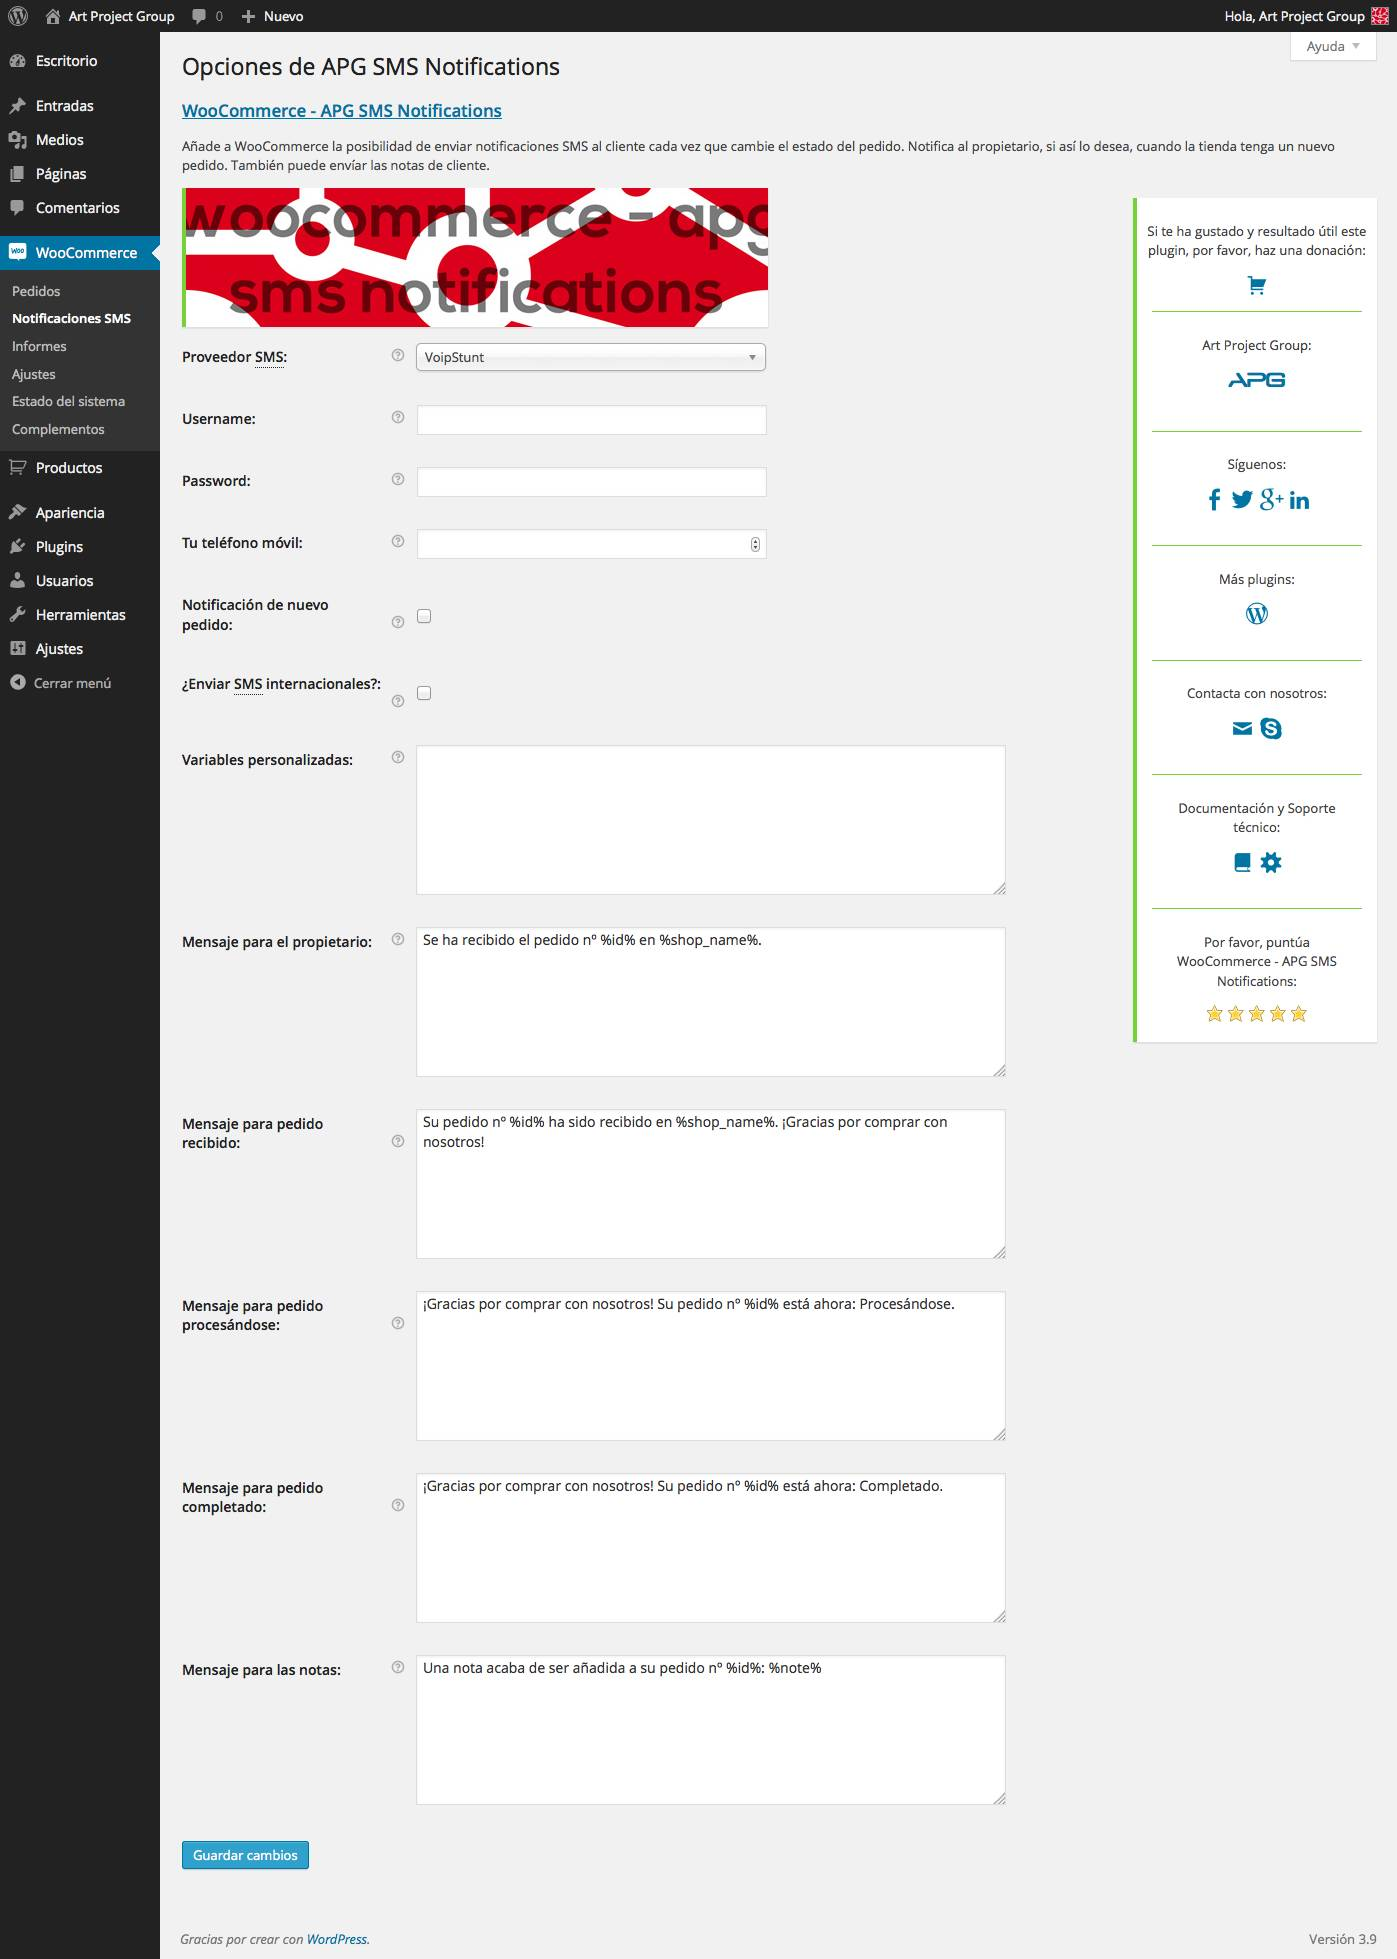
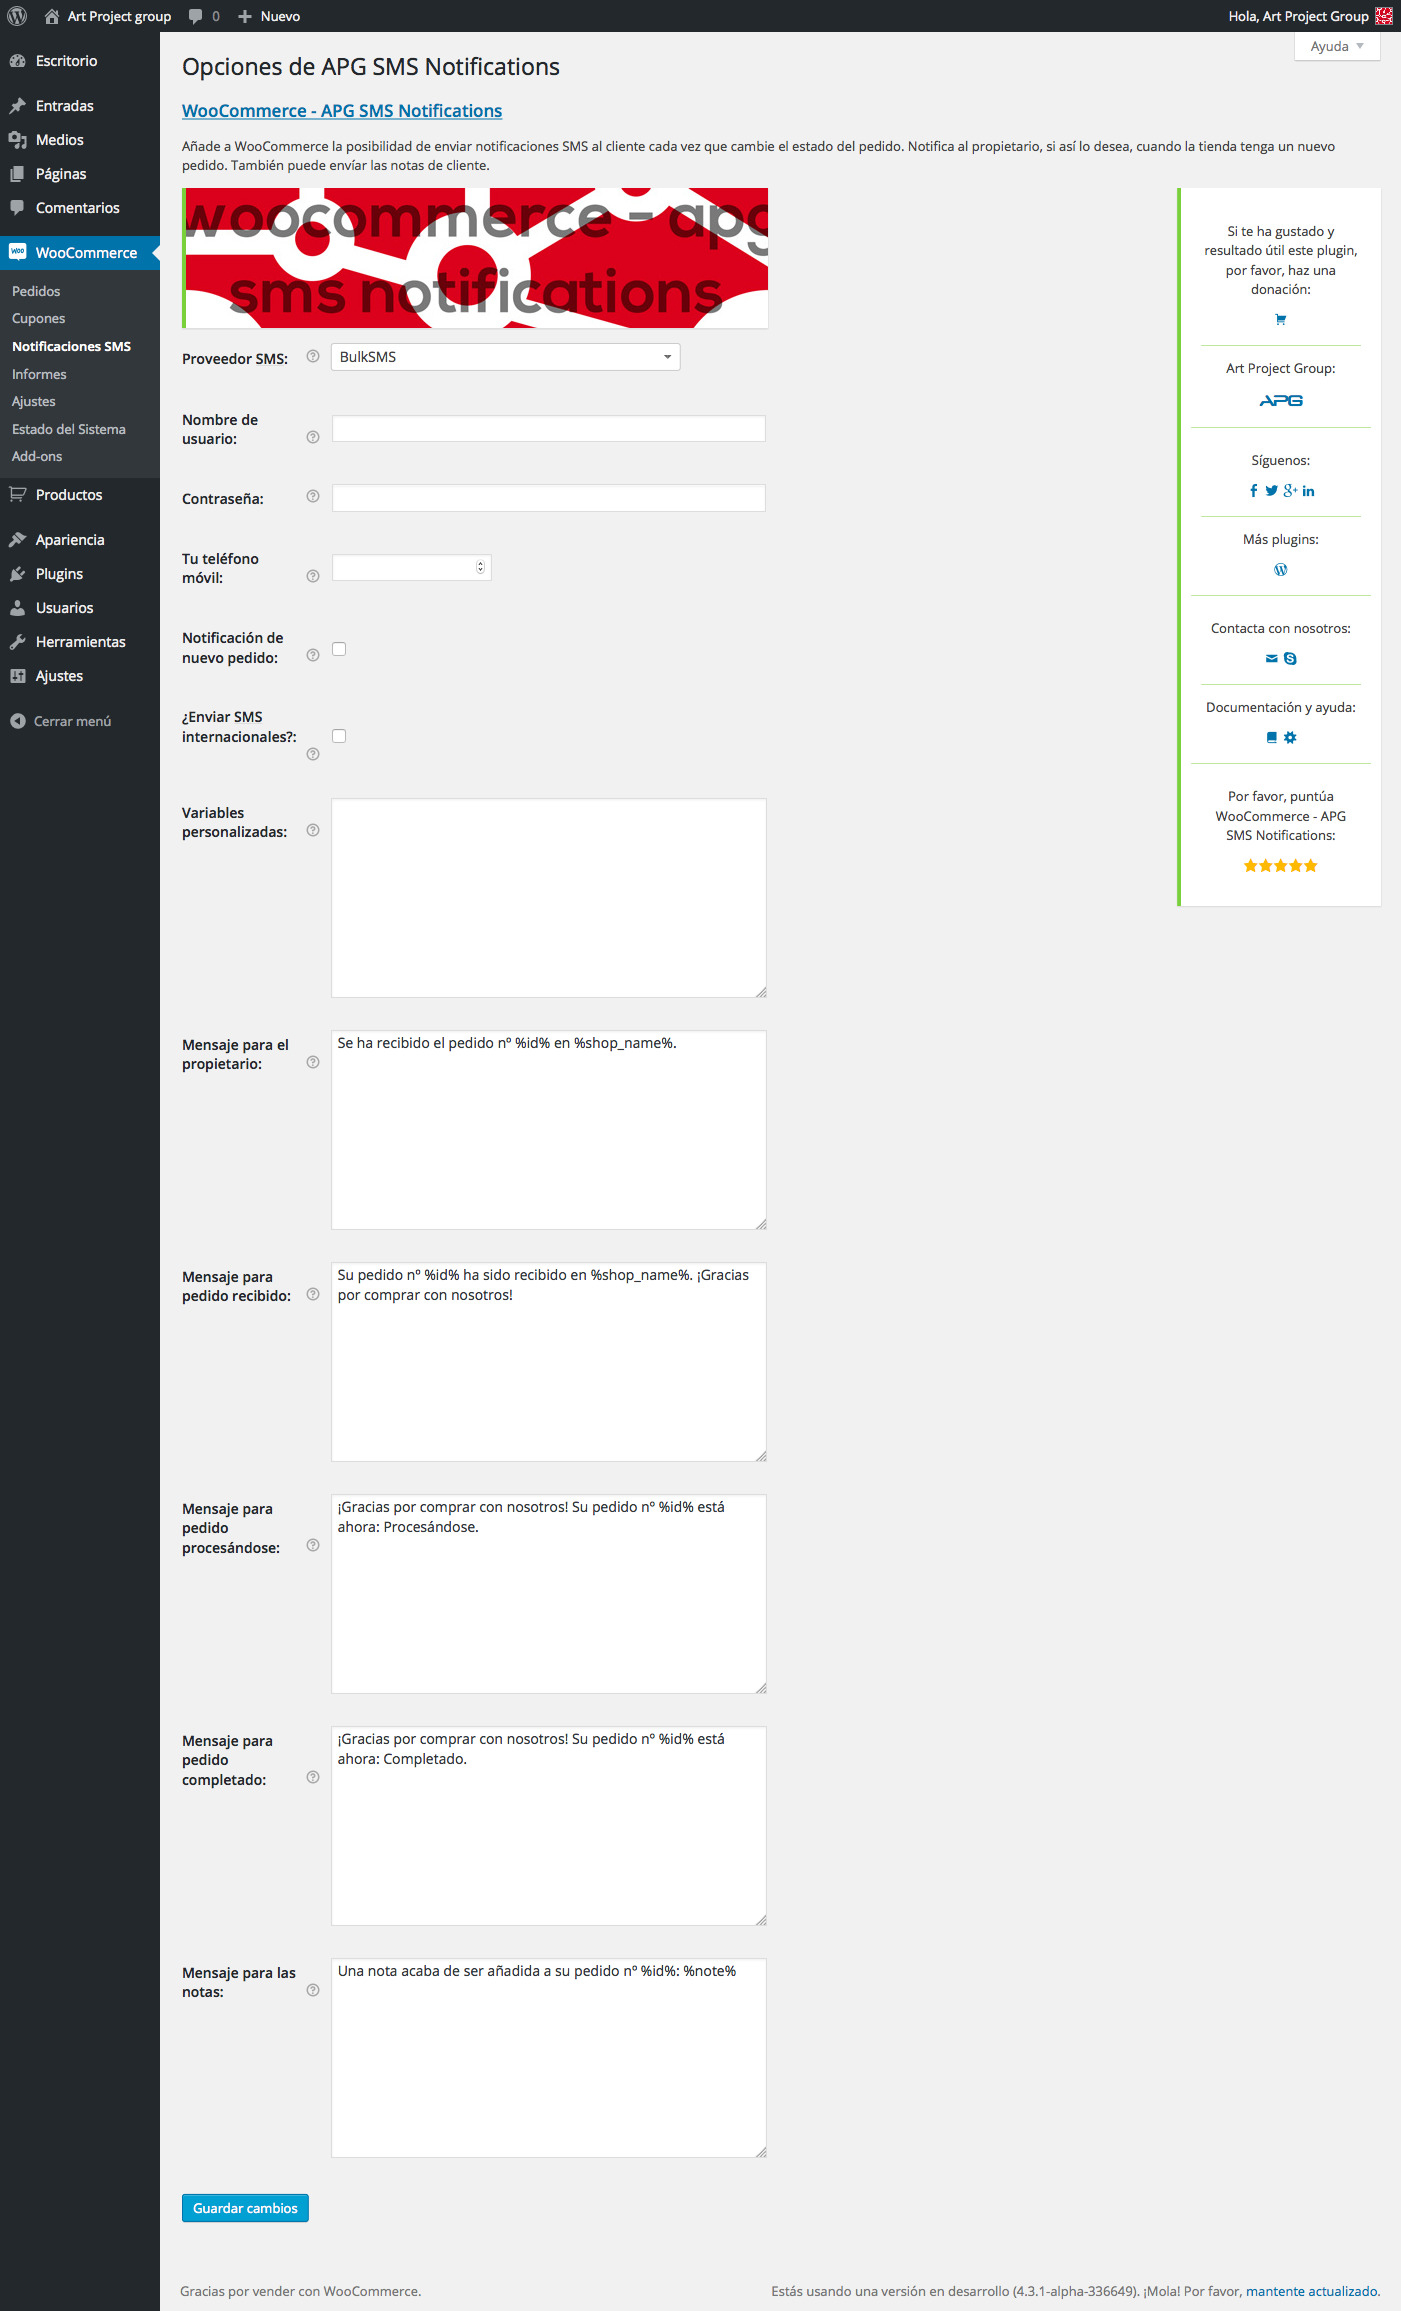
Versión 2.7.4
git-svn-id: http://plugins.svn.wordpress.org/woocommerce-apg-sms-notifications/trunk@1237925 b8457f37-d9ea-0310-8a92-e5e31aec5664

diff --git a/assets/css/style.css b/assets/css/style.css
@@ -1,5 +1,5 @@
 @charset "UTF-8";
- @import url(../fonts/stylesheet.css);
+@import url(../fonts/stylesheet.css);
 /*General*/
 table.apg-table, .cabecera {
 	clear: none;
@@ -28,10 +28,10 @@ table.apg-table, .cabecera {
 .estrellas .star-rating .star {
 	font-size: 18px;
 }
-div.informacion .genericon, div.informacion .estrellas .star-rating .star, div.informacion .artprojectgroup, {
- width: 15px;
- height: 15px;
- font-size: 15px;
+div.informacion .genericon, div.informacion .estrellas .star-rating .star, div.informacion .artprojectgroup {
+	width: 15px;
+	height: 15px;
+	font-size: 15px;
 }
 div.informacion {
 	background-color: #FFFFFF;

diff --git a/apg-sms.php b/apg-sms.php
@@ -1,7 +1,7 @@
 <?php
 /*
 Plugin Name: WooCommerce - APG SMS Notifications
-Version: 2.7.3.1
+Version: 2.7.4
 Plugin URI: http://wordpress.org/plugins/woocommerce-apg-sms-notifications/
 Description: Add to WooCommerce SMS notifications to your clients for order status changes. Also you can receive an SMS message when the shop get a new order and select if you want to send international SMS. The plugin add the international dial code automatically to the client phone number.
 Author URI: http://www.artprojectgroup.es/
@@ -82,8 +82,8 @@ if ( in_array( 'woocommerce/woocommerce.php', apply_filters( 'active_plugins', g
 	//Pinta el formulario de configuración
 	function apg_sms_tab() {
 		wp_enqueue_style( 'apg_sms_hoja_de_estilo' ); //Carga la hoja de estilo
-		wp_enqueue_style( 'woocommerce_chosen_styles' );
-		wp_enqueue_script( 'wc-chosen' );
+		//wp_enqueue_style( 'woocommerce_admin_styles' );
+		//wp_enqueue_script( 'wc-enhanced-select' );
 		include( 'includes/formulario.php' );
 	}
 
@@ -92,30 +92,6 @@ if ( in_array( 'woocommerce/woocommerce.php', apply_filters( 'active_plugins', g
 		global $configuracion;
 	
 		add_submenu_page( 'woocommerce', __( 'APG SMS Notifications', 'apg_sms' ),  __( 'SMS Notifications', 'apg_sms' ) , 'manage_woocommerce', 'apg_sms', 'apg_sms_tab' );
-	
-		//Estos ajustes temporales hay que borrarlos en un par de versiones
-		$actualiza = false;
-		if ( $configuracion['servicio'] == 'twillio' ) {
-			$configuracion['clave_twilio'] = $configuracion['clave_twillio'];
-			unset( $configuracion['clave_twillio'] );
-			$configuracion['identificador_twilio'] = $configuracion['identificador_twillio'];
-			unset( $configuracion['identificador_twillio'] );
-			$configuracion['servicio'] == 'twilio';
-			$actualiza = true;
-		}
-		if ( isset( $configuracion['telefono'] ) ) {
-			if ( !isset( $configuracion['telefono_twilio'] ) || empty( $configuracion['telefono_twilio'] ) ) {
-				$configuracion['telefono_twilio'] = $configuracion['telefono'];
-				$actualiza = true;
-			}
-			if ( !isset( $configuracion['telefono_isms'] ) || empty( $configuracion['telefono_isms'] ) ) {
-				$configuracion['telefono_isms'] = $configuracion['telefono'];
-				$actualiza = true;
-			}
-		}
-		if ( $actualiza ) {
-			update_option( 'apg_sms_settings', $configuracion );
-		}
 	}
 	add_action( 'admin_menu', 'apg_sms_admin_menu', 15 );
 
@@ -846,80 +822,81 @@ if ( in_array( 'woocommerce/woocommerce.php', apply_filters( 'active_plugins', g
 	
 		return ( $pais == '' ) ? $paises : ( isset( $paises[$pais] ) ? $paises[$pais] : '' );
 	}
-	
-	//Obtiene toda la información sobre el plugin
-	function apg_sms_plugin( $nombre ) {
-		global $apg_sms;
-		
-		$argumentos = ( object ) array( 
-			'slug' => $nombre 
-		);
-		$consulta = array( 
-			'action' => 'plugin_information', 
-			'timeout' => 15, 
-			'request' => serialize( $argumentos )
-		);
-		$respuesta = get_transient( 'apg_sms_plugin' );
-		if ( false === $respuesta ) {
-			$respuesta = wp_remote_post( 'http://api.wordpress.org/plugins/info/1.0/', array( 
-				'body' => $consulta)
-			);
-			set_transient( 'apg_sms_plugin', $respuesta, 24 * HOUR_IN_SECONDS );
-		}
-		if ( !is_wp_error( $respuesta ) ) {
-			$plugin = get_object_vars( unserialize( $respuesta['body'] ) );
-		} else {
-			$plugin['rating'] = 100;
-		}
-	
-		$rating = array(
-		   'rating'	=> $plugin['rating'],
-		   'type'	=> 'percent',
-		   'number'	=> $plugin['num_ratings'],
-		);
-		ob_start();
-		wp_star_rating( $rating );
-		$estrellas = ob_get_contents();
-		ob_end_clean();
-	
-		return '<a title="' . sprintf( __( 'Please, rate %s:', 'apg_sms' ), $apg_sms['plugin'] ) . '" href="' . $apg_sms['puntuacion'] . '?rate=5#postform" class="estrellas">' . $estrellas . '</a>';
-	}
-	
-	//Muestra el mensaje de actualización
-	function apg_sms_actualizacion() {
-		global $apg_sms;
-		
-		echo '<div class="error fade" id="message"><h3>' . $apg_sms['plugin'] . '</h3><h4>' . sprintf( __( "Please, update your %s. It's very important!", 'apg_sms' ), '<a href="' . $apg_sms['ajustes'] . '" title="' . __( 'Settings', 'apg_sms' ) . '">' . __( 'settings', 'apg_sms' ) . '</a>' ) . '</h4></div>';
-	}
-	
-	//Carga las hojas de estilo
-	function apg_sms_muestra_mensaje() {
-		global $configuracion;
-	
-		wp_register_style( 'apg_sms_hoja_de_estilo', plugins_url( 'assets/css/style.css', __FILE__ ) ); //Carga la hoja de estilo
-		wp_register_style( 'apg_sms_fuentes', plugins_url( 'assets/fonts/stylesheet.css', __FILE__ ) ); //Carga la hoja de estilo global
-		wp_enqueue_style( 'apg_sms_fuentes' ); //Carga la hoja de estilo global
-	
-		if ( !isset( $configuracion['mensaje_pedido'] ) || !isset( $configuracion['mensaje_nota'] ) ) { //Comprueba si hay que mostrar el mensaje de actualización
-			add_action( 'admin_notices', 'apg_sms_actualizacion' );
-		}
-	}
-	add_action( 'admin_init', 'apg_sms_muestra_mensaje' );
 } else {
 	add_action( 'admin_notices', 'apg_sms_requiere_wc' );
 }
 
-//Muestra el mensaje de actualización
+//Muestra el mensaje de activación de WooCommerce y desactiva el plugin
 function apg_sms_requiere_wc() {
 	global $apg_sms;
 		
+	echo '<div class="error fade" id="message"><h3>' . $apg_sms['plugin'] . '</h3><h4>' . __( "This plugin require WooCommerce active to run!", 'apg_sms' ) . '</h4></div>';
+	deactivate_plugins( DIRECCION_apg_sms );
+}
+
+//Obtiene toda la información sobre el plugin
+function apg_sms_plugin( $nombre ) {
+	global $apg_sms;
+	
+	$argumentos = ( object ) array( 
+		'slug' => $nombre 
+	);
+	$consulta = array( 
+		'action' => 'plugin_information', 
+		'timeout' => 15, 
+		'request' => serialize( $argumentos )
+	);
+	$respuesta = get_transient( 'apg_sms_plugin' );
+	if ( false === $respuesta ) {
+		$respuesta = wp_remote_post( 'http://api.wordpress.org/plugins/info/1.0/', array( 
+			'body' => $consulta)
+		);
+		set_transient( 'apg_sms_plugin', $respuesta, 24 * HOUR_IN_SECONDS );
+	}
+	if ( !is_wp_error( $respuesta ) ) {
+		$plugin = get_object_vars( unserialize( $respuesta['body'] ) );
+	} else {
+		$plugin['rating'] = 100;
+	}
+
+	$rating = array(
+	   'rating'	=> $plugin['rating'],
+	   'type'	=> 'percent',
+	   'number'	=> $plugin['num_ratings'],
+	);
+	ob_start();
+	wp_star_rating( $rating );
+	$estrellas = ob_get_contents();
+	ob_end_clean();
+
+	return '<a title="' . sprintf( __( 'Please, rate %s:', 'apg_sms' ), $apg_sms['plugin'] ) . '" href="' . $apg_sms['puntuacion'] . '?rate=5#postform" class="estrellas">' . $estrellas . '</a>';
+}
+
+//Muestra el mensaje de actualización
+function apg_sms_actualizacion() {
+	global $apg_sms;
+	
 	echo '<div class="error fade" id="message"><h3>' . $apg_sms['plugin'] . '</h3><h4>' . sprintf( __( "Please, update your %s. It's very important!", 'apg_sms' ), '<a href="' . $apg_sms['ajustes'] . '" title="' . __( 'Settings', 'apg_sms' ) . '">' . __( 'settings', 'apg_sms' ) . '</a>' ) . '</h4></div>';
 }
 
+//Carga las hojas de estilo
+function apg_sms_muestra_mensaje() {
+	global $configuracion;
+
+	wp_register_style( 'apg_sms_hoja_de_estilo', plugins_url( 'assets/css/style.css', __FILE__ ) ); //Carga la hoja de estilo
+	wp_register_style( 'apg_sms_fuentes', plugins_url( 'assets/fonts/stylesheet.css', __FILE__ ) ); //Carga la hoja de estilo global
+	wp_enqueue_style( 'apg_sms_fuentes' ); //Carga la hoja de estilo global
+
+	/*if ( !isset( $configuracion['mensaje_pedido'] ) || !isset( $configuracion['mensaje_nota'] ) ) { //Comprueba si hay que mostrar el mensaje de actualización
+		add_action( 'admin_notices', 'apg_sms_actualizacion' );
+	}*/
+}
+add_action( 'admin_init', 'apg_sms_muestra_mensaje' );
+
 //Eliminamos todo rastro del plugin al desinstalarlo
 function apg_sms_desinstalar() {
-  delete_option( 'apg_sms_settings' );
-  delete_transient( 'apg_sms_plugin' );
+	delete_option( 'apg_sms_settings' );
+	delete_transient( 'apg_sms_plugin' );
 }
 register_uninstall_hook( __FILE__, 'apg_sms_desinstalar' );
 ?>

diff --git a/includes/formulario.php b/includes/formulario.php
@@ -50,9 +50,9 @@
             <?php _e( '<abbr title="Short Message Service" lang="en">SMS</abbr> gateway:', 'apg_sms' ); ?>
           </label>
           <img class="help_tip" data-tip="<?php _e( 'Select your SMS gateway', 'apg_sms' ); ?>" src="<?php echo plugins_url(  'woocommerce/assets/images/help.png' );?>" height="16" width="16" /> </th>
-        <td class="forminp forminp-number"><select class="chosen_select servicio" id="apg_sms_settings[servicio]" name="apg_sms_settings[servicio]" style="width: 450px;" tabindex="<?php echo $tab++; ?>">
+        <td class="forminp forminp-number"><select class="wc-enhanced-select servicio" id="apg_sms_settings[servicio]" name="apg_sms_settings[servicio]" style="width: 450px;" tabindex="<?php echo $tab++; ?>">
             <?php
-            $proveedores = array( 
+			$proveedores = array( 
 				"voipstunt" 			=> "VoipStunt", 
 				"solutions_infini" 	=> "Solutions Infini", 
 				"twilio" 			=> "Twilio", 
@@ -68,7 +68,8 @@
 				"smscountry" 		=> "SMS Country",
 				"labsmobile" 		=> "LabsMobile Spain",
 				"plivo" 				=> "Plivo",
-             );
+			);
+			asort( $proveedores, SORT_NATURAL | SORT_FLAG_CASE ); //Ordena alfabeticamente los proveedores
             foreach ( $proveedores as $valor => $proveedor ) {
 				$chequea = ( isset( $configuracion['servicio'] ) && $configuracion['servicio'] == $valor ) ? ' selected="selected"' : '';
 				echo '<option value="' . $valor . '"' . $chequea . '>' . $proveedor . '</option>' . PHP_EOL;
@@ -344,6 +345,9 @@ jQuery( document ).ready( function( $ ) {
 		control( $( this ).val() ); 
 	} );
 	var control = function( capa ) {
+		if ( capa == '' ) {
+			capa = $( '.servicio option:first' ).val();
+		}
 		var proveedores= new Array();
 		<?php 
 		foreach( $proveedores as $indice => $valor ) {
